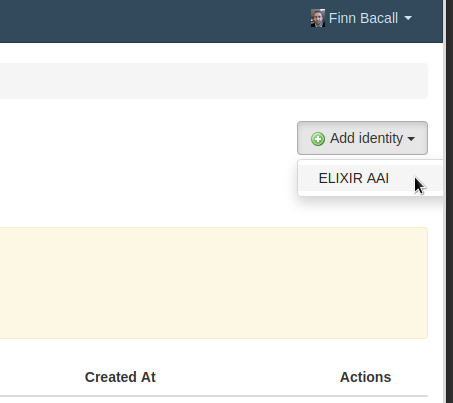
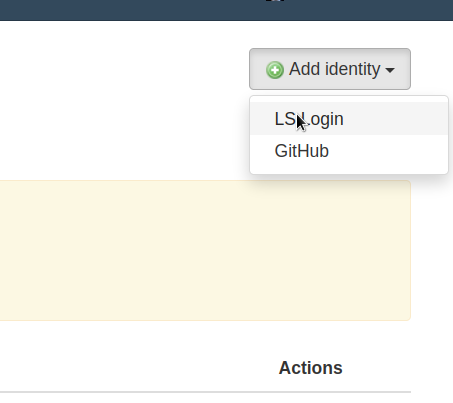
Update ELIXIR AAI instructions to refer to LS Login. Fixes seek4science/seek#1354

Changed region(s): [[0.0, 0.0, 1.0, 1.0], [0.0, 0.8933, 0.9272, 1.0]]

diff --git a/help/user-guide/aai.md b/help/user-guide/aai.md
@@ -1,31 +1,29 @@
 ---
-title: SEEK User Guide - Logging in via ELIXIR AAI
+title: SEEK User Guide - Logging in via LS Login
 layout: page
 ---
 
-# Logging into SEEK via ELIXIR AAI
+# Logging into SEEK via LS Login
 
-*Note*: This section assumes you have an ELIXIR AAI account (or your organization is connected to ELIXIR AAI), 
-and ELIXIR AAI authentication is enabled on the SEEK instance you are using. For more information on ELIXIR AAI, please 
-see their [documentation](https://elixir-europe.org/services/compute/aai-documentation){:target="_blank"}.
+*Note*: This section assumes you have an LS Login account (or your organization is connected to LS Login), 
+and LS Login authentication is enabled on the SEEK instance you are using. For more information on LS Login, please 
+see their [documentation](https://lifescience-ri.eu/ls-login/documentation/user-documentation/user-documentation.html){:target="_blank"}.
 
-Already got a SEEK account? See how to [add ELIXIR AAI to your account](managing-identities.html#add-identity) instead. 
+Already got a SEEK account? See how to [add LS Login to your account](managing-identities.html#add-identity) instead. 
 
-If enabled on the SEEK instance you are using, you will see a tab on the login form titled "ELIXIR AAI"
+If enabled on the SEEK instance you are using, you will see a tab on the login form titled "LS Login"
 
-![Login form](/images/user-guide/omniauth/aai_tab.png){:.screenshot}
+Clicking this will switch to the LS Login tab and present the LS Login login button.
 
-Clicking this will switch to the ELIXIR AAI tab and present the ELIXIR AAI login button.
-
-![ELIXIR AAI tab selected](/images/user-guide/omniauth/aai_button.png){:.screenshot}
+![LS Login tab selected](/images/user-guide/omniauth/ls_login_button.png){:.screenshot}
 
 <a name="aai-flow"></a>
-Clicking this button will redirect your browser to ELIXIR AAI, 
+Clicking this button will redirect your browser to LS Login, 
 where you will be asked to choose your "Identity Provider", which will usually be your academic institution.
-If you have logged in using ELIXIR AAI before, your institution may be highlighted at the top, 
+If you have logged in using LS Login before, your institution may be highlighted at the top, 
 otherwise you can use the search box to find it.
 
-![ELIXIR AAI identity provider selection](/images/user-guide/omniauth/aai_inst_choice.png){:.screenshot}
+![LS Login identity provider selection](/images/user-guide/omniauth/ls_login_inst_choice.png){:.screenshot}
 
 You will then be redirected to your institution's login page, where you can login using your institution account's credentials. 
 Note: this will likely look different to the screenshot below.
@@ -33,13 +31,11 @@ Note: this will likely look different to the screenshot below.
 ![Institution login form](/images/user-guide/omniauth/inst_login.png){:.screenshot}
 
 After logging in through your institution, you may then be presented with a personal information consent page, 
-which outlines what personal data will be provided by ELIXIR AAI to the SEEK instance:
-
-![ELIXIR AAI personal information consent page](/images/user-guide/omniauth/identity_consent.png){:.screenshot}
+which outlines what personal data will be provided by LS Login to the SEEK instance.
 
 At a minimum, the identifier must be provided, or login is not possible. Any other information is used solely to 
 populate fields in your SEEK profile.
 
-If this is your first time logging in via ELIXIR AAI, you will be directed to create a new "Profile". For guidance on how to do this, see [Registering in SEEK](registering.html#new-profile). Some fields such as your name and email address may already be populated with information provided by your institution.
+If this is your first time logging in via LS Login, you will be directed to create a new "Profile". For guidance on how to do this, see [Registering in SEEK](registering.html#new-profile). Some fields such as your name and email address may already be populated with information provided by your institution.
 
 Otherwise, you will be directed to the home page and should now be logged in.

diff --git a/help/user-guide/managing-identities.md b/help/user-guide/managing-identities.md
@@ -8,8 +8,9 @@ layout: page
 Depending on the configuration of the SEEK instance, in addition to the usual username/password method, 
 you may be able to login through one of the following: 
  * LDAP
- * ELIXIR AAI
+ * LS Login
  * GitHub
+ * A custom OIDC provider
  
 Each different way you login is considered an "identity", and you can potentially have multiple identities connected
 to your SEEK account.
@@ -29,11 +30,11 @@ If you already have a SEEK account and want to login using a different method, y
 (The options listed will vary depending on the SEEK configuration)
 
 Clicking one of the identity options will direct you to login via that provider. 
-For more detail on how to proceed with ELIXIR AAI login, see [here](aai.html#aai-flow).
+For more detail on how to proceed with LS Login, see [here](aai.html#aai-flow).
 
 After successfully logging in, you should be redirected back to the "Manage Identities" page, and see the new identity listed.
 
-![New AAI identity listed](/images/user-guide/omniauth/identity_added.png){:.screenshot}
+![New identity listed](/images/user-guide/omniauth/identity_added.png){:.screenshot}
 
 ## Removing an identity
 

diff --git a/help/user-guide/index.md b/help/user-guide/index.md
@@ -9,7 +9,7 @@ layout: page
 
 - [Registering in SEEK](registering.html)
 - [Logging into SEEK](login.html)
-     - [Logging into SEEK via ELIXIR AAI](aai.html)
+     - [Logging into SEEK via LS Login](aai.html)
 - [Editing your profile](editing-profile.html)
 - [Managing your account](managing-account.html)
      - [Managing your identities/alternative login methods](managing-identities.html)
